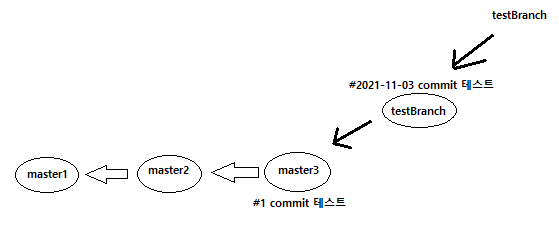
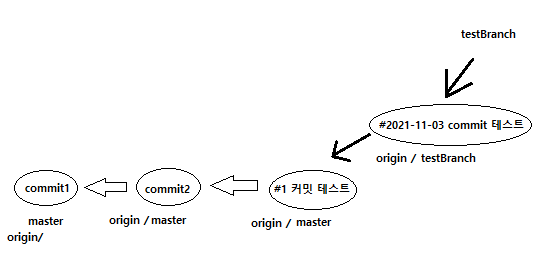
post 수정

diff --git a/_posts/2021-10-28-git_command.md b/_posts/2021-10-28-git_command.md
@@ -218,3 +218,5 @@ last_modified_at: '2021-11-03 11:14:00 -0700'
 - **Branch는 포인터일 뿐 commit 이 아니다.**
 
 - Branch를 포인터라 생각하면 편하다.
+
+- origin 뜻은 원격에 commit 이 push 되었다는 상태. 
